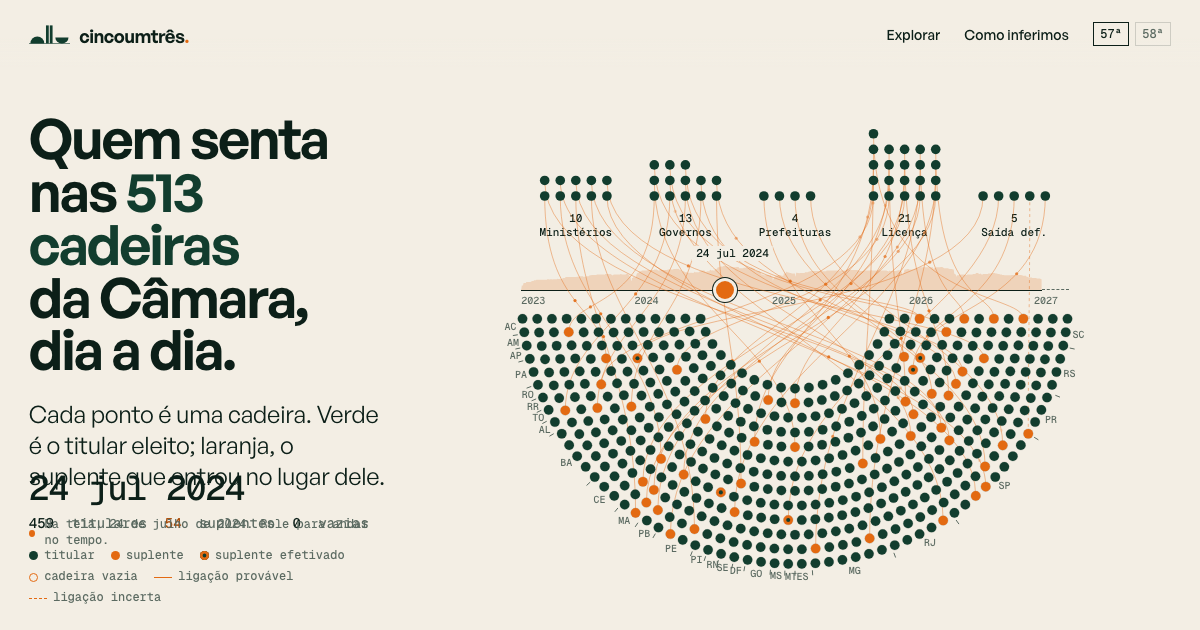
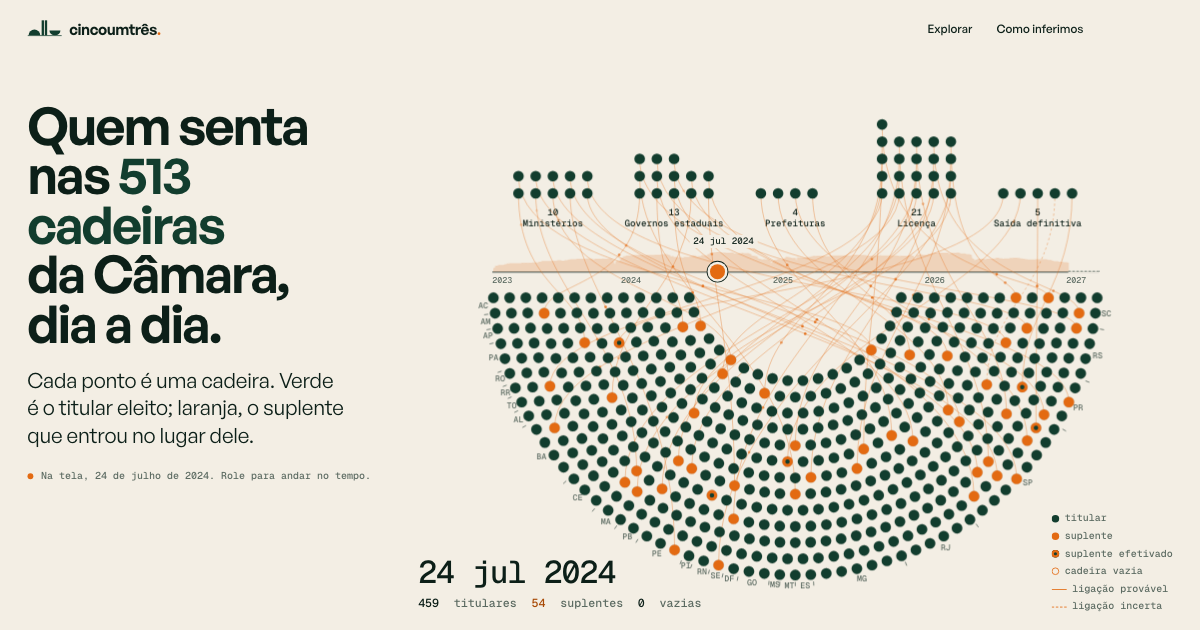
Refaz a imagem de compartilhamento e adiciona a tag do Google Tag Manager
A imagem OG tinha texto sobreposto e o seletor de legislaturas antigo; agora traz largura, altura e texto alternativo.

diff --git a/site/src/app/layout.tsx b/site/src/app/layout.tsx
@@ -3,7 +3,7 @@ import { Cabecalho } from '@/components/Cabecalho';
 import { Simbolo } from '@/components/Marca';
 import { Motion } from '@/components/Motion';
 import { Rodape } from '@/components/Rodape';
-import { legislaturas } from '@/lib/dados';
+import { legislaturas, LEG_ATUAL } from '@/lib/dados';
 import { SITE } from '@/lib/site';
 import { mono, sans } from './fonts';
 import './globals.css';
@@ -13,7 +13,7 @@ export const metadata: Metadata = {
   title: { default: `${SITE.nome}: quem ocupa as 513 cadeiras da Câmara`, template: `%s | ${SITE.nome}` },
   description: SITE.descricao,
   alternates: { canonical: './' },
-  openGraph: { type: 'website', siteName: SITE.nome, locale: 'pt_BR', images: ['/og.png'] },
+  openGraph: { type: 'website', siteName: SITE.nome, locale: 'pt_BR', images: [{ url: '/og.png', width: 1200, height: 630, alt: 'A concha da Câmara com as 513 cadeiras, titulares em verde e suplentes em laranja' }] },
   twitter: { card: 'summary_large_image' },
   authors: [{ name: 'Matheus C. Pestana' }],
 };
@@ -28,7 +28,7 @@ const flags = `document.documentElement.classList.add('js');if(!matchMedia('(pre
 const jsonLd = {
   '@context': 'https://schema.org',
   '@type': 'Dataset',
-  name: 'Ocupação das cadeiras da Câmara dos Deputados, 57ª legislatura',
+  name: `Ocupação das cadeiras da Câmara dos Deputados, ${LEG_ATUAL}ª legislatura`,
   description: SITE.descricao,
   creator: { '@type': 'Person', name: 'Matheus C. Pestana' },
   publisher: { '@type': 'Organization', name: 'MACAPE Pesquisas e Consultoria em Tecnologia Ltda.', url: 'https://macape.dev' },
@@ -42,6 +42,8 @@ export default function RootLayout({ children }: LayoutProps<'/'>) {
     <html lang="pt-BR" className={`${sans.variable} ${mono.variable}`} suppressHydrationWarning>
       <head>
         <script dangerouslySetInnerHTML={{ __html: flags }} />
+        <script async src="https://www.googletagmanager.com/gtm.js?id=GTM-NHFTBDF3" />
+        <script dangerouslySetInnerHTML={{ __html: `window.dataLayer = window.dataLayer || [];function gtag(){dataLayer.push(arguments);}gtag('js', new Date());` }} />
       </head>
       <body>
         <a className="skip-link" href="#main">Pular para o conteúdo</a>
